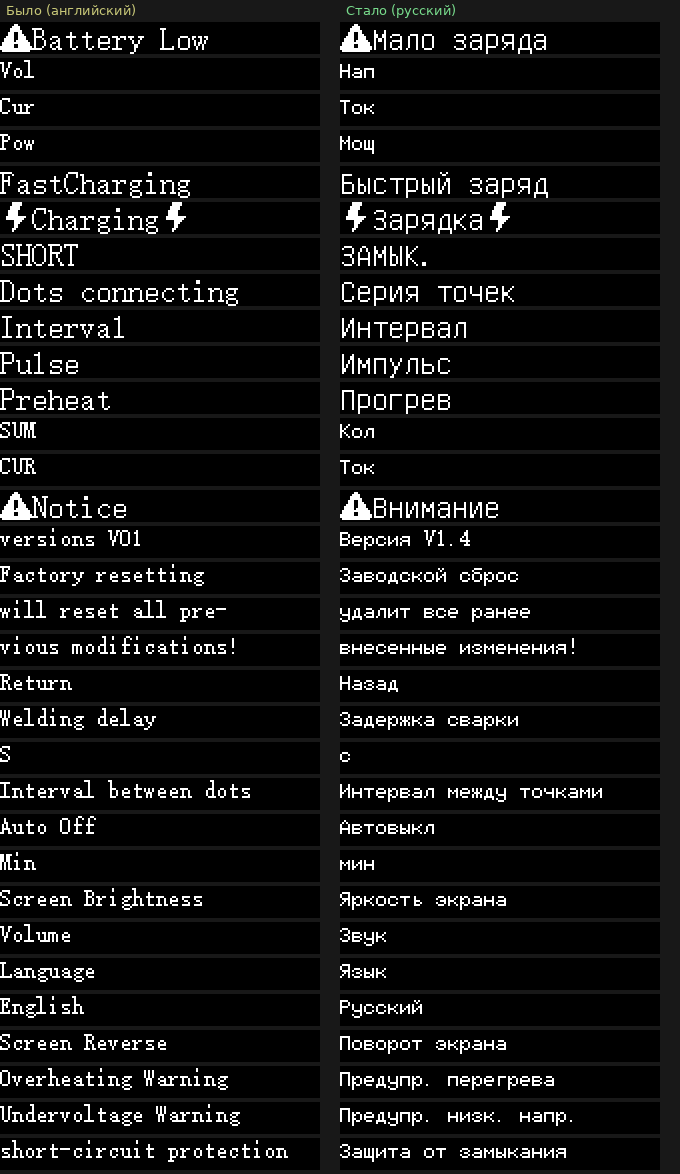
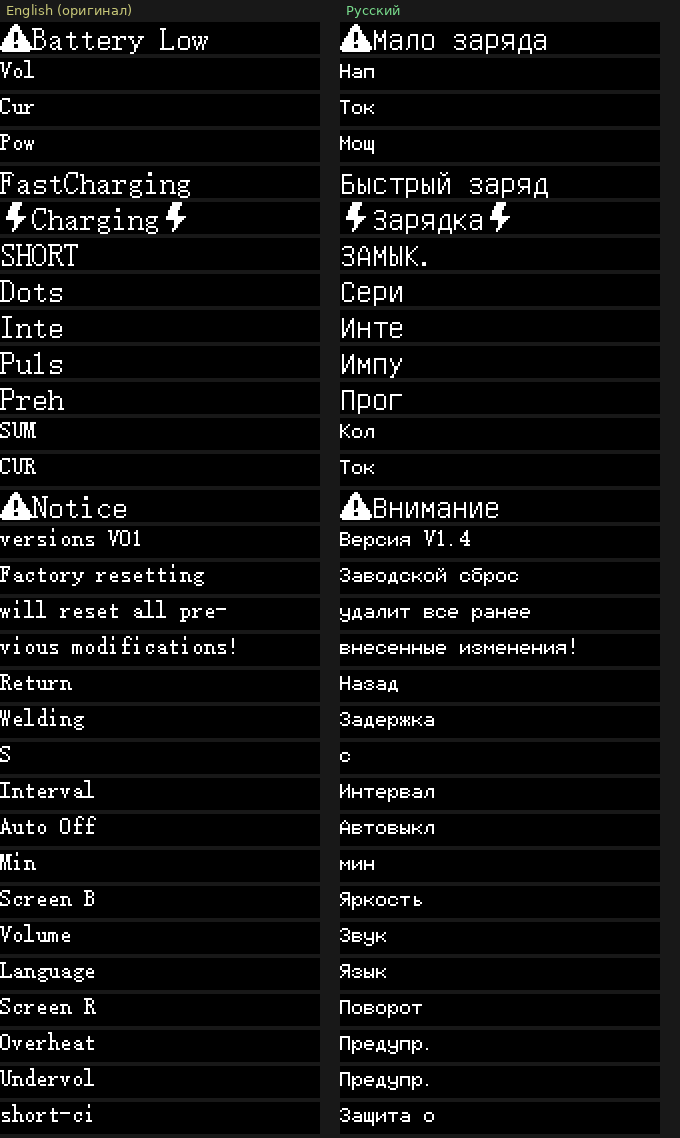
SWM-10 RU firmware v2: Russian replaces Chinese, English untouched
Claude-Session: https://claude.ai/code/session_01XFFd1Y5sAPVHVGVzFDhbyf

diff --git a/swm10-ru/README.md b/swm10-ru/README.md
@@ -1,16 +1,19 @@
 # FNIRSI SWM-10: русификация прошивки V1.4
 
 `APP_SWM-10_V1.4_RU.bin` — прошивка точечной сварки FNIRSI SWM-10 V1.4 с русским интерфейсом.
-Русский занимает место английского (в меню языка пункт «Русский»), китайский язык не тронут.
-`preview_before_after.png` — сравнение подписей «было/стало».
+В меню выбора языка теперь два языка: **Русский** (вместо китайского) и **English** (оригинальный, без изменений).
+`preview_before_after.png` — сравнение подписей English / Русский.
 
 ## Что изменено
 - Дописаны кириллические глифы в шрифты 6x12 и 8x16 (кодировка CP1251).
-- В обработчик строк добавлена небольшая заплатка: в не-китайском режиме байты >= 0x80 рисуются как буквы.
-- Английские строки заменены русскими на месте, пересчитаны ширины для бегущей строки.
+- В русском режиме прошивка идёт по «английской» ветке (те же раскладки экранов и бегущие строки), а перед выводом
+  английская строка подменяется русской. Ширина бегущей строки пересчитывается на лету.
+- Пункт китайского языка в меню заменён на «Ру»/«Русский». Язык переключается между English и Русский.
+- Все английские строки в прошивке остались байт-в-байт как в оригинале (изменено 40 байт кода плюс дописанные данные).
+- Старая настройка «китайский» из флеша при загрузке трактуется как русский.
 
 ## Предупреждение
-Проверено только в эмуляторе (отрисовка строк кодом прошивки). На реальном устройстве не тестировалось.
+Проверено только в эмуляторе (отрисовка строк кодом прошивки, логика переключения языка). На реальном устройстве не тестировалось.
 Неизвестно, проверяет ли загрузчик контрольную сумму или размер файла. Сохраните оригинальную прошивку для отката. Шьёте на свой риск.
 
-SHA-256 `APP_SWM-10_V1.4_RU.bin`: 692d3f2a183e05c8f2d5739e480f089ba24a4f572cf655a340d515989fbef906
+SHA-256 `APP_SWM-10_V1.4_RU.bin`: 10f53a725f0ea43a460b77349aafebe67a5a11ab272974987d631e0caea560aa
